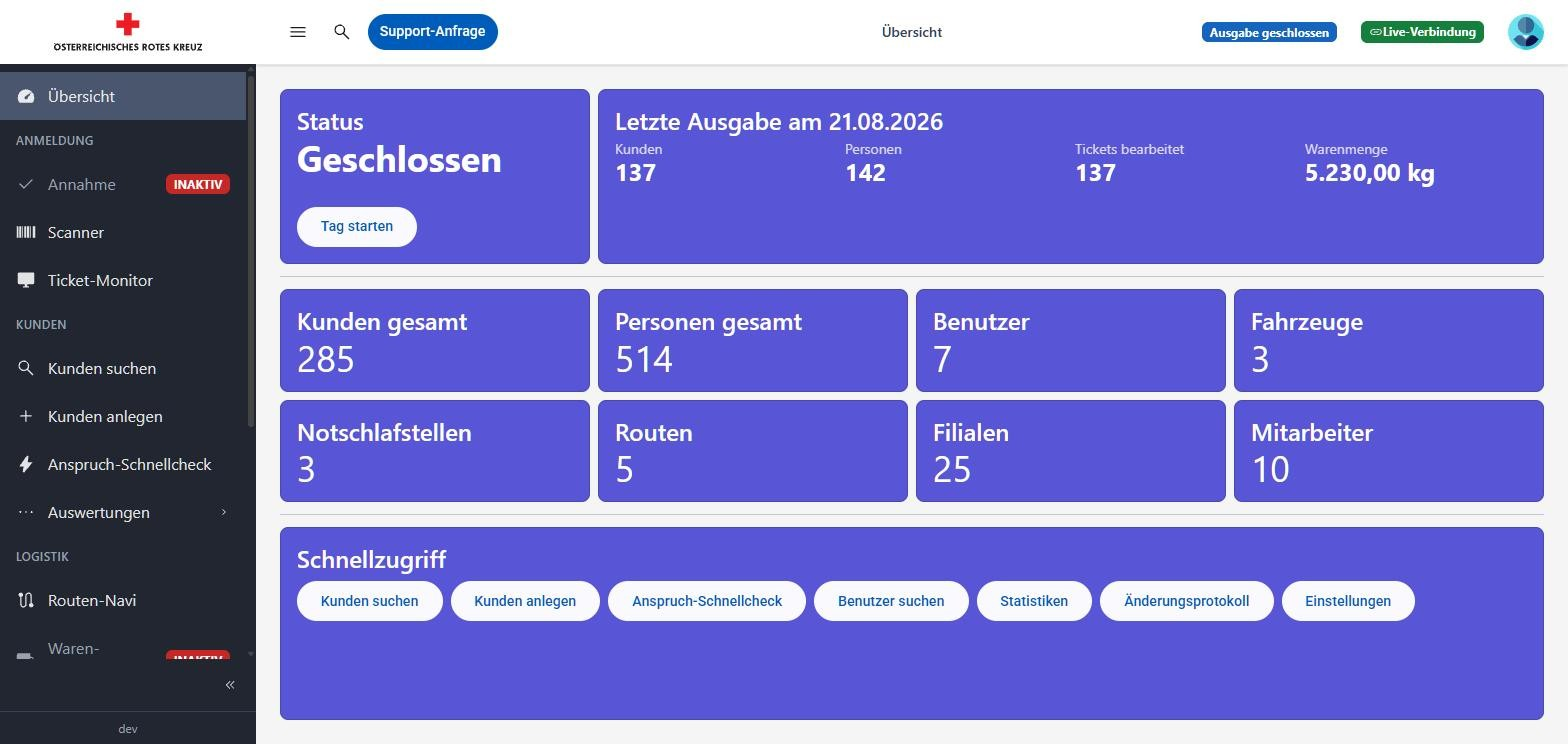
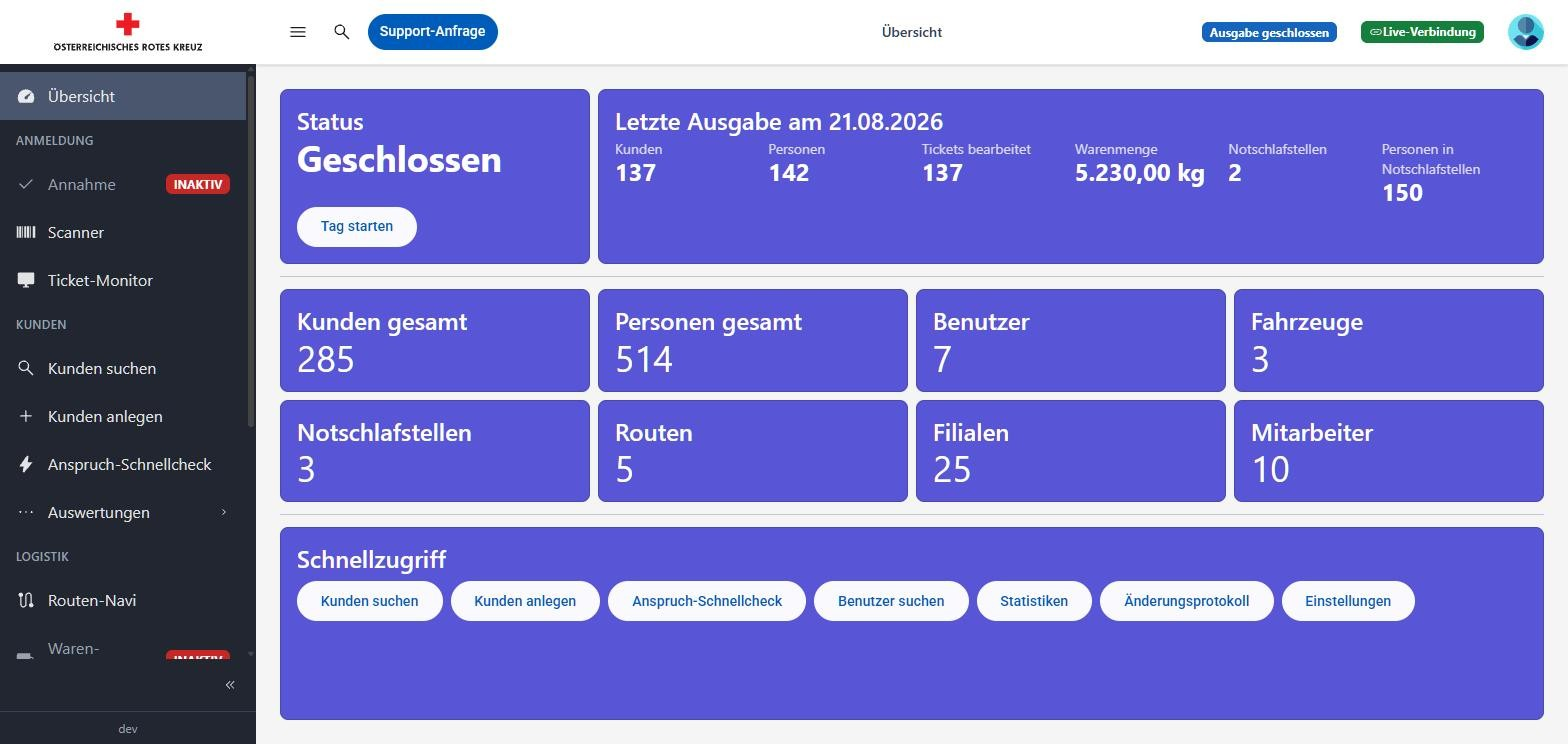
fix(dashboard): fix blank Einstellungen quick link, add shelters to last-distribution summary
'/einstellungen' alone has no matching route (settings.routes.ts has
no '' path - the sidebar itself never navigates there, only expands
its children), so the quick link rendered a blank page. Points at
/einstellungen/fahrzeuge instead.

Also extends the "Letzte Ausgabe" summary with the shelter count and
persons-in-shelters count from that distribution's end-of-day
statistic, and gives the demo distribution in testdata a statistic
with two shelters so the numbers aren't zero there either.

Changed region(s): [[0.6875, 0.1855, 0.9375, 0.2782], [0.4688, 0.1855, 0.6562, 0.2473]]

diff --git a/backend/src/test/kotlin/at/wrk/tafel/admin/backend/modules/dashboard/internal/DashboardServiceTest.kt b/backend/src/test/kotlin/at/wrk/tafel/admin/backend/modules/dashboard/internal/DashboardServiceTest.kt
@@ -450,6 +450,30 @@ internal class DashboardServiceTest {
             )
             foodCollections = listOf(testFoodCollectionRoute1Entity)
         }
+        val testStatistic = DistributionStatisticEntity(distribution = testLastDistributionEntity)
+        testStatistic.shelters = mutableListOf(
+            DistributionStatisticShelterEntity(
+                statistic = testStatistic,
+                name = testShelter1.name,
+                addressStreet = testShelter1.addressStreet,
+                addressHouseNumber = testShelter1.addressHouseNumber,
+                addressPostalCode = testShelter1.addressPostalCode,
+                addressCity = testShelter1.addressCity,
+                personsCount = testShelter1.personsCount,
+                sortOrder = testShelter1.sortOrder,
+            ).apply { id = testShelter1.id },
+            DistributionStatisticShelterEntity(
+                statistic = testStatistic,
+                name = testShelter2.name,
+                addressStreet = testShelter2.addressStreet,
+                addressHouseNumber = testShelter2.addressHouseNumber,
+                addressPostalCode = testShelter2.addressPostalCode,
+                addressCity = testShelter2.addressCity,
+                personsCount = testShelter2.personsCount,
+                sortOrder = testShelter2.sortOrder,
+            ).apply { id = testShelter2.id },
+        )
+        testLastDistributionEntity.statistic = testStatistic
         every { distributionRepository.findFirstByEndedAtIsNotNullOrderByStartedAtDesc() } returns testLastDistributionEntity
 
         val countRegisteredCustomers = 3
@@ -465,6 +489,27 @@ internal class DashboardServiceTest {
         // only testDistributionHouseholdEntity1 is processed
         assertThat(lastDistribution.countProcessedTickets).isEqualTo(1)
         assertThat(lastDistribution.foodAmountTotal).isEqualTo(BigDecimal(140))
+        assertThat(lastDistribution.sheltersCount).isEqualTo(2)
+        // testShelter1.personsCount (1) + testShelter2.personsCount (2)
+        assertThat(lastDistribution.personsInSheltersCount).isEqualTo(3)
+    }
+
+    @Test
+    fun `get last distribution data is shelter-less when the closed distribution has no statistic`() {
+        every { distributionRepository.findFirstByOrderByIdDesc() } returns null
+
+        val closedAt = LocalDateTime.now().minusDays(3)
+        val testLastDistributionEntity = DistributionEntity(startedAt = closedAt, startedByUser = testUserEntity).apply {
+            id = 456
+            endedAt = closedAt.plusHours(4)
+        }
+        every { distributionRepository.findFirstByEndedAtIsNotNullOrderByStartedAtDesc() } returns testLastDistributionEntity
+
+        val data = service.getData()
+
+        val lastDistribution = data.lastDistribution!!
+        assertThat(lastDistribution.sheltersCount).isEqualTo(0)
+        assertThat(lastDistribution.personsInSheltersCount).isEqualTo(0)
     }
 
     @Test

diff --git a/frontend/src/main/webapp/src/app/modules/dashboard/components/last-distribution-summary/last-distribution-summary.component.html b/frontend/src/main/webapp/src/app/modules/dashboard/components/last-distribution-summary/last-distribution-summary.component.html
@@ -2,7 +2,7 @@
   <mat-card-content class="!p-4">
     @if (summary(); as s) {
       <h2 class="tafel-h4 mb-1">Letzte Ausgabe am {{ s.date | date: 'dd.MM.yyyy' }}</h2>
-      <div class="grid grid-cols-2 sm:grid-cols-4 gap-2">
+      <div class="grid grid-cols-2 sm:grid-cols-3 lg:grid-cols-6 gap-2">
         <div>
           <div class="text-sm opacity-80">Kunden</div>
           <div testid="last-distribution-customers" class="text-2xl font-bold leading-none">{{ s.registeredCustomers }}</div>
@@ -18,6 +18,14 @@
         <div>
           <div class="text-sm opacity-80">Warenmenge</div>
           <div testid="last-distribution-food-amount" class="text-2xl font-bold leading-none">{{ (s.foodAmountTotal | number: '1.2-2') }} kg</div>
+        </div>
+        <div>
+          <div class="text-sm opacity-80">Notschlafstellen</div>
+          <div testid="last-distribution-shelters" class="text-2xl font-bold leading-none">{{ s.sheltersCount }}</div>
+        </div>
+        <div>
+          <div class="text-sm opacity-80">Personen in Notschlafstellen</div>
+          <div testid="last-distribution-shelter-persons" class="text-2xl font-bold leading-none">{{ s.personsInSheltersCount }}</div>
         </div>
       </div>
     } @else {

diff --git a/frontend/src/main/webapp/src/app/modules/dashboard/components/last-distribution-summary/last-distribution-summary.component.spec.ts b/frontend/src/main/webapp/src/app/modules/dashboard/components/last-distribution-summary/last-distribution-summary.component.spec.ts
@@ -21,6 +21,8 @@ describe('LastDistributionSummaryComponent', () => {
       registeredPersons: 84,
       countProcessedTickets: 40,
       foodAmountTotal: 123.456,
+      sheltersCount: 2,
+      personsInSheltersCount: 15,
     };
 
     const fixture = TestBed.createComponent(LastDistributionSummaryComponent);
@@ -32,6 +34,8 @@ describe('LastDistributionSummaryComponent', () => {
     expect(fixture.debugElement.query(By.css('[testid="last-distribution-tickets"]')).nativeElement.textContent).toBe('40');
     const foodAmountText = fixture.debugElement.query(By.css('[testid="last-distribution-food-amount"]')).nativeElement.textContent;
     expect(foodAmountText.trim()).toBe('123,46 kg');
+    expect(fixture.debugElement.query(By.css('[testid="last-distribution-shelters"]')).nativeElement.textContent).toBe('2');
+    expect(fixture.debugElement.query(By.css('[testid="last-distribution-shelter-persons"]')).nativeElement.textContent).toBe('15');
   });
 
   it('renders a placeholder when no distribution has ever been closed', () => {

diff --git a/frontend/src/main/webapp/src/app/modules/dashboard/components/quick-links/quick-links.component.ts b/frontend/src/main/webapp/src/app/modules/dashboard/components/quick-links/quick-links.component.ts
@@ -18,7 +18,10 @@ const QUICK_LINKS: QuickLink[] = [
   {testId: 'users-search', label: 'Benutzer suchen', url: '/benutzer/suchen', permission: 'USER_MANAGEMENT'},
   {testId: 'statistics', label: 'Statistiken', url: '/statistiken/allgemein', permission: 'STATISTICS'},
   {testId: 'audit-log', label: 'Änderungsprotokoll', url: '/aenderungsprotokoll', permission: 'AUDIT_LOG'},
-  {testId: 'settings', label: 'Einstellungen', url: '/einstellungen', permission: 'SETTINGS'},
+  // '/einstellungen' alone has no matching route (settings.routes.ts has no '' path - the sidebar
+  // never navigates there itself, see DefaultLayoutComponent's template, only expands its children)
+  // and renders a blank page, so this links straight to its first child screen instead.
+  {testId: 'settings', label: 'Einstellungen', url: '/einstellungen/fahrzeuge', permission: 'SETTINGS'},
 ];
 
 @Component({

diff --git a/backend/src/main/kotlin/at/wrk/tafel/admin/backend/modules/dashboard/internal/DashboardService.kt b/backend/src/main/kotlin/at/wrk/tafel/admin/backend/modules/dashboard/internal/DashboardService.kt
@@ -91,12 +91,16 @@ class DashboardService(
         val lastDistribution = distributionRepository.findFirstByEndedAtIsNotNullOrderByStartedAtDesc()
             ?: return null
 
+        val shelters = lastDistribution.statistic?.shelters ?: emptyList()
+
         return DashboardLastDistributionData(
             date = lastDistribution.startedAt.toLocalDate(),
             registeredCustomers = getRegisteredCustomers(lastDistribution),
             registeredPersons = getRegisteredPersons(lastDistribution),
             countProcessedTickets = countProcessedTickets(lastDistribution),
             foodAmountTotal = getFoodAmountTotal(lastDistribution),
+            sheltersCount = shelters.size,
+            personsInSheltersCount = shelters.sumOf { it.personsCount },
         )
     }
 

diff --git a/frontend/src/main/webapp/cypress/e2e/dashboard.cy.ts b/frontend/src/main/webapp/cypress/e2e/dashboard.cy.ts
@@ -148,6 +148,9 @@ describe('Dashboard', () => {
     // the ticket was registered but never processed via the ticket screen
     cy.byTestId('last-distribution-tickets').should('have.text', '0');
     cy.byTestId('last-distribution-food-amount').invoke('text').invoke('trim').should('equal', '0,00 kg');
+    // cy.closeDistribution() always selects shelters 1 and 2 (100 + 50 persons) from the testdata
+    cy.byTestId('last-distribution-shelters').should('have.text', '2');
+    cy.byTestId('last-distribution-shelter-persons').should('have.text', '150');
 
     // organization-wide counts, filled from the seeded testdata rather than anything this spec set
     // up itself - just asserted as real (positive) numbers rather than pinned exact values, since

diff --git a/backend/src/main/kotlin/at/wrk/tafel/admin/backend/modules/dashboard/DashboardResponseModel.kt b/backend/src/main/kotlin/at/wrk/tafel/admin/backend/modules/dashboard/DashboardResponseModel.kt
@@ -77,6 +77,10 @@ data class DashboardLastDistributionData(
     val registeredPersons: Int,
     val countProcessedTickets: Int,
     val foodAmountTotal: BigDecimal,
+    /** How many shelters were selected on that distribution's end-of-day statistic - 0 if none were (or it was never filled in). */
+    val sheltersCount: Int,
+    /** Sum of `DistributionStatisticShelterEntity.personsCount` across those shelters - the same frozen snapshot the statistic itself keeps. */
+    val personsInSheltersCount: Int,
 )
 
 /**

diff --git a/frontend/src/main/webapp/src/app/modules/dashboard/dashboard.component.ts b/frontend/src/main/webapp/src/app/modules/dashboard/dashboard.component.ts
@@ -132,6 +132,8 @@ export interface DashboardLastDistributionData {
   registeredPersons: number;
   countProcessedTickets: number;
   foodAmountTotal: number;
+  sheltersCount: number;
+  personsInSheltersCount: number;
 }
 
 export interface DashboardOrganizationOverviewData {

diff --git a/frontend/src/main/webapp/src/app/modules/dashboard/README.md b/frontend/src/main/webapp/src/app/modules/dashboard/README.md
@@ -189,7 +189,10 @@ above).
   filename out of the `Content-Disposition` response header.
 - **`LastDistributionSummaryComponent`**: purely presentational, like the other panels - takes
   `summary: DashboardLastDistributionData | null` and renders its own placeholder text when `null`
-  (no distribution has ever been closed) rather than leaving itself blank.
+  (no distribution has ever been closed) rather than leaving itself blank. Six figures in total:
+  customers/persons/tickets/food-amount plus `sheltersCount`/`personsInSheltersCount` - the latter
+  two are `0`/`0` (not a placeholder) when that distribution's statistic had no shelters selected,
+  same "zero is a real answer" rule the other four figures already follow.
 - **`StatTileComponent`** (`tafel-stat-tile`): the one generic panel here - `label`/`value`/`testId`
   inputs rather than a dedicated component per figure, since the eight organization-overview tiles are
   otherwise identical. `testId` (not a plain `testid` attribute) because the component renders the
@@ -203,7 +206,15 @@ above).
   `computed()` (same pattern `AuditEntryListComponent` uses for its own per-section permission checks).
   Renders each surviving link as a `routerLink`-driven `mat-raised-button`, and a placeholder message
   when the filtered list is empty rather than rendering nothing - consistent with
-  `LastDistributionSummaryComponent`'s null-summary placeholder above.
+  `LastDistributionSummaryComponent`'s null-summary placeholder above. **Every `url` here must be a
+  leaf route, never a parent-only path like `/einstellungen`** - `settings.routes.ts` (and several
+  other feature route files) has no `''`-path child, so navigating there directly renders a blank
+  `<router-outlet>`. The sidebar never hits this because `DefaultLayoutComponent`'s template renders a
+  parent item with `children` as a `<button>` that only toggles expansion, not an `<a routerLink>` -
+  the `url` on those nav items is otherwise-unused data, not a proof the bare path itself resolves to
+  anything. The `settings` entry here links to `/einstellungen/fahrzeuge` for exactly this reason;
+  check a new link actually renders something before adding it, rather than assuming a path that
+  "looks like" the section root works.
 - Every panel card visually communicates "warning" vs "success" vs "primary" via `computed()`
   color functions comparing recorded vs. total counts (e.g. `TicketsProcessedComponent
   .panelColor`, `RecordedFoodCollectionsComponent.panelColor`) — no shared logic between them, so

diff --git a/backend/src/main/kotlin/at/wrk/tafel/admin/backend/modules/dashboard/README.md b/backend/src/main/kotlin/at/wrk/tafel/admin/backend/modules/dashboard/README.md
@@ -25,14 +25,16 @@ Only three source files (plus `package-info.java`):
   without diffing two lists itself); `lastDistribution` and `organizationOverview` stay `null`. If none
   is open, every one of those day-specific fields is `null` instead, and two fields are populated so the
   overview page still has something to show: `lastDistribution`, from the most recently closed
-  distribution (`DistributionRepository.findFirstByEndedAtIsNotNullOrderByStartedAtDesc()`) - `null`
-  there too on a fresh installation that has never closed one - and `organizationOverview`, eight
-  organization-wide counts (active households/persons/users/cars/shelters/routes/shops, plus employees)
-  read straight off `HouseholdRepository`, `PersonRepository`, `UserRepository`, `CarRepository`,
-  `ShelterRepository`, `RouteRepository`, `ShopRepository` and `EmployeeRepository`. The frontend shows
-  the day-specific panels while a distribution is open, and the last-distribution summary plus the
-  organization overview tiles (plus a row of permission-gated quick links to fill whatever space is
-  still left) otherwise.
+  distribution (`DistributionRepository.findFirstByEndedAtIsNotNullOrderByStartedAtDesc()`) - customer/
+  person/ticket/food-amount counts the same way the active branch computes them, plus `sheltersCount`/
+  `personsInSheltersCount` read off that distribution's own `statistic?.shelters` (the same frozen
+  snapshot `getStatisticsData()` reads `selectedShelterNames` from, see below) - `null` there too on a
+  fresh installation that has never closed one - and `organizationOverview`, eight organization-wide
+  counts (active households/persons/users/cars/shelters/routes/shops, plus employees) read straight off
+  `HouseholdRepository`, `PersonRepository`, `UserRepository`, `CarRepository`, `ShelterRepository`,
+  `RouteRepository`, `ShopRepository` and `EmployeeRepository`. The frontend shows the day-specific
+  panels while a distribution is open, and the last-distribution summary plus the organization overview
+  tiles (plus a row of permission-gated quick links to fill whatever space is still left) otherwise.
 - **`DashboardResponseModel`** (`DashboardData`, `DashboardTicketsData`, `DashboardStatisticsData`,
   `DashboardLogisticsData`, `DashboardLastDistributionData`, `DashboardOrganizationOverviewData`) – Plain
   DTOs serialized straight onto the SSE stream as JSON.

diff --git a/docs/userguide/README.md b/docs/userguide/README.md
@@ -190,7 +190,7 @@ Auf Touch-Geräten erscheinen die Kurzhinweise, wenn man das Symbol kurz gedrüc
 
 ## Übersicht (Dashboard)
 
-Die Übersicht ist die Startseite und zeigt den aktuellen Status des Ausgabetags sowie Kennzahlen des Tages. **Status** ist dabei immer sichtbar. Solange keine Ausgabe läuft, zeigt die Übersicht anstelle der tagesbezogenen Kennzahlen eine kurze Zusammenfassung der zuletzt abgeschlossenen Ausgabe (Kunden, Personen, bearbeitete Tickets, erfasste Warenmenge) – wurde noch nie eine Ausgabe abgeschlossen, erscheint stattdessen ein Hinweistext:
+Die Übersicht ist die Startseite und zeigt den aktuellen Status des Ausgabetags sowie Kennzahlen des Tages. **Status** ist dabei immer sichtbar. Solange keine Ausgabe läuft, zeigt die Übersicht anstelle der tagesbezogenen Kennzahlen eine kurze Zusammenfassung der zuletzt abgeschlossenen Ausgabe (Kunden, Personen, bearbeitete Tickets, erfasste Warenmenge sowie Anzahl der genutzten Notschlafstellen und der Personen darin) – wurde noch nie eine Ausgabe abgeschlossen, erscheint stattdessen ein Hinweistext:
 
 ![Übersicht](images/dashboard.jpg)
 
